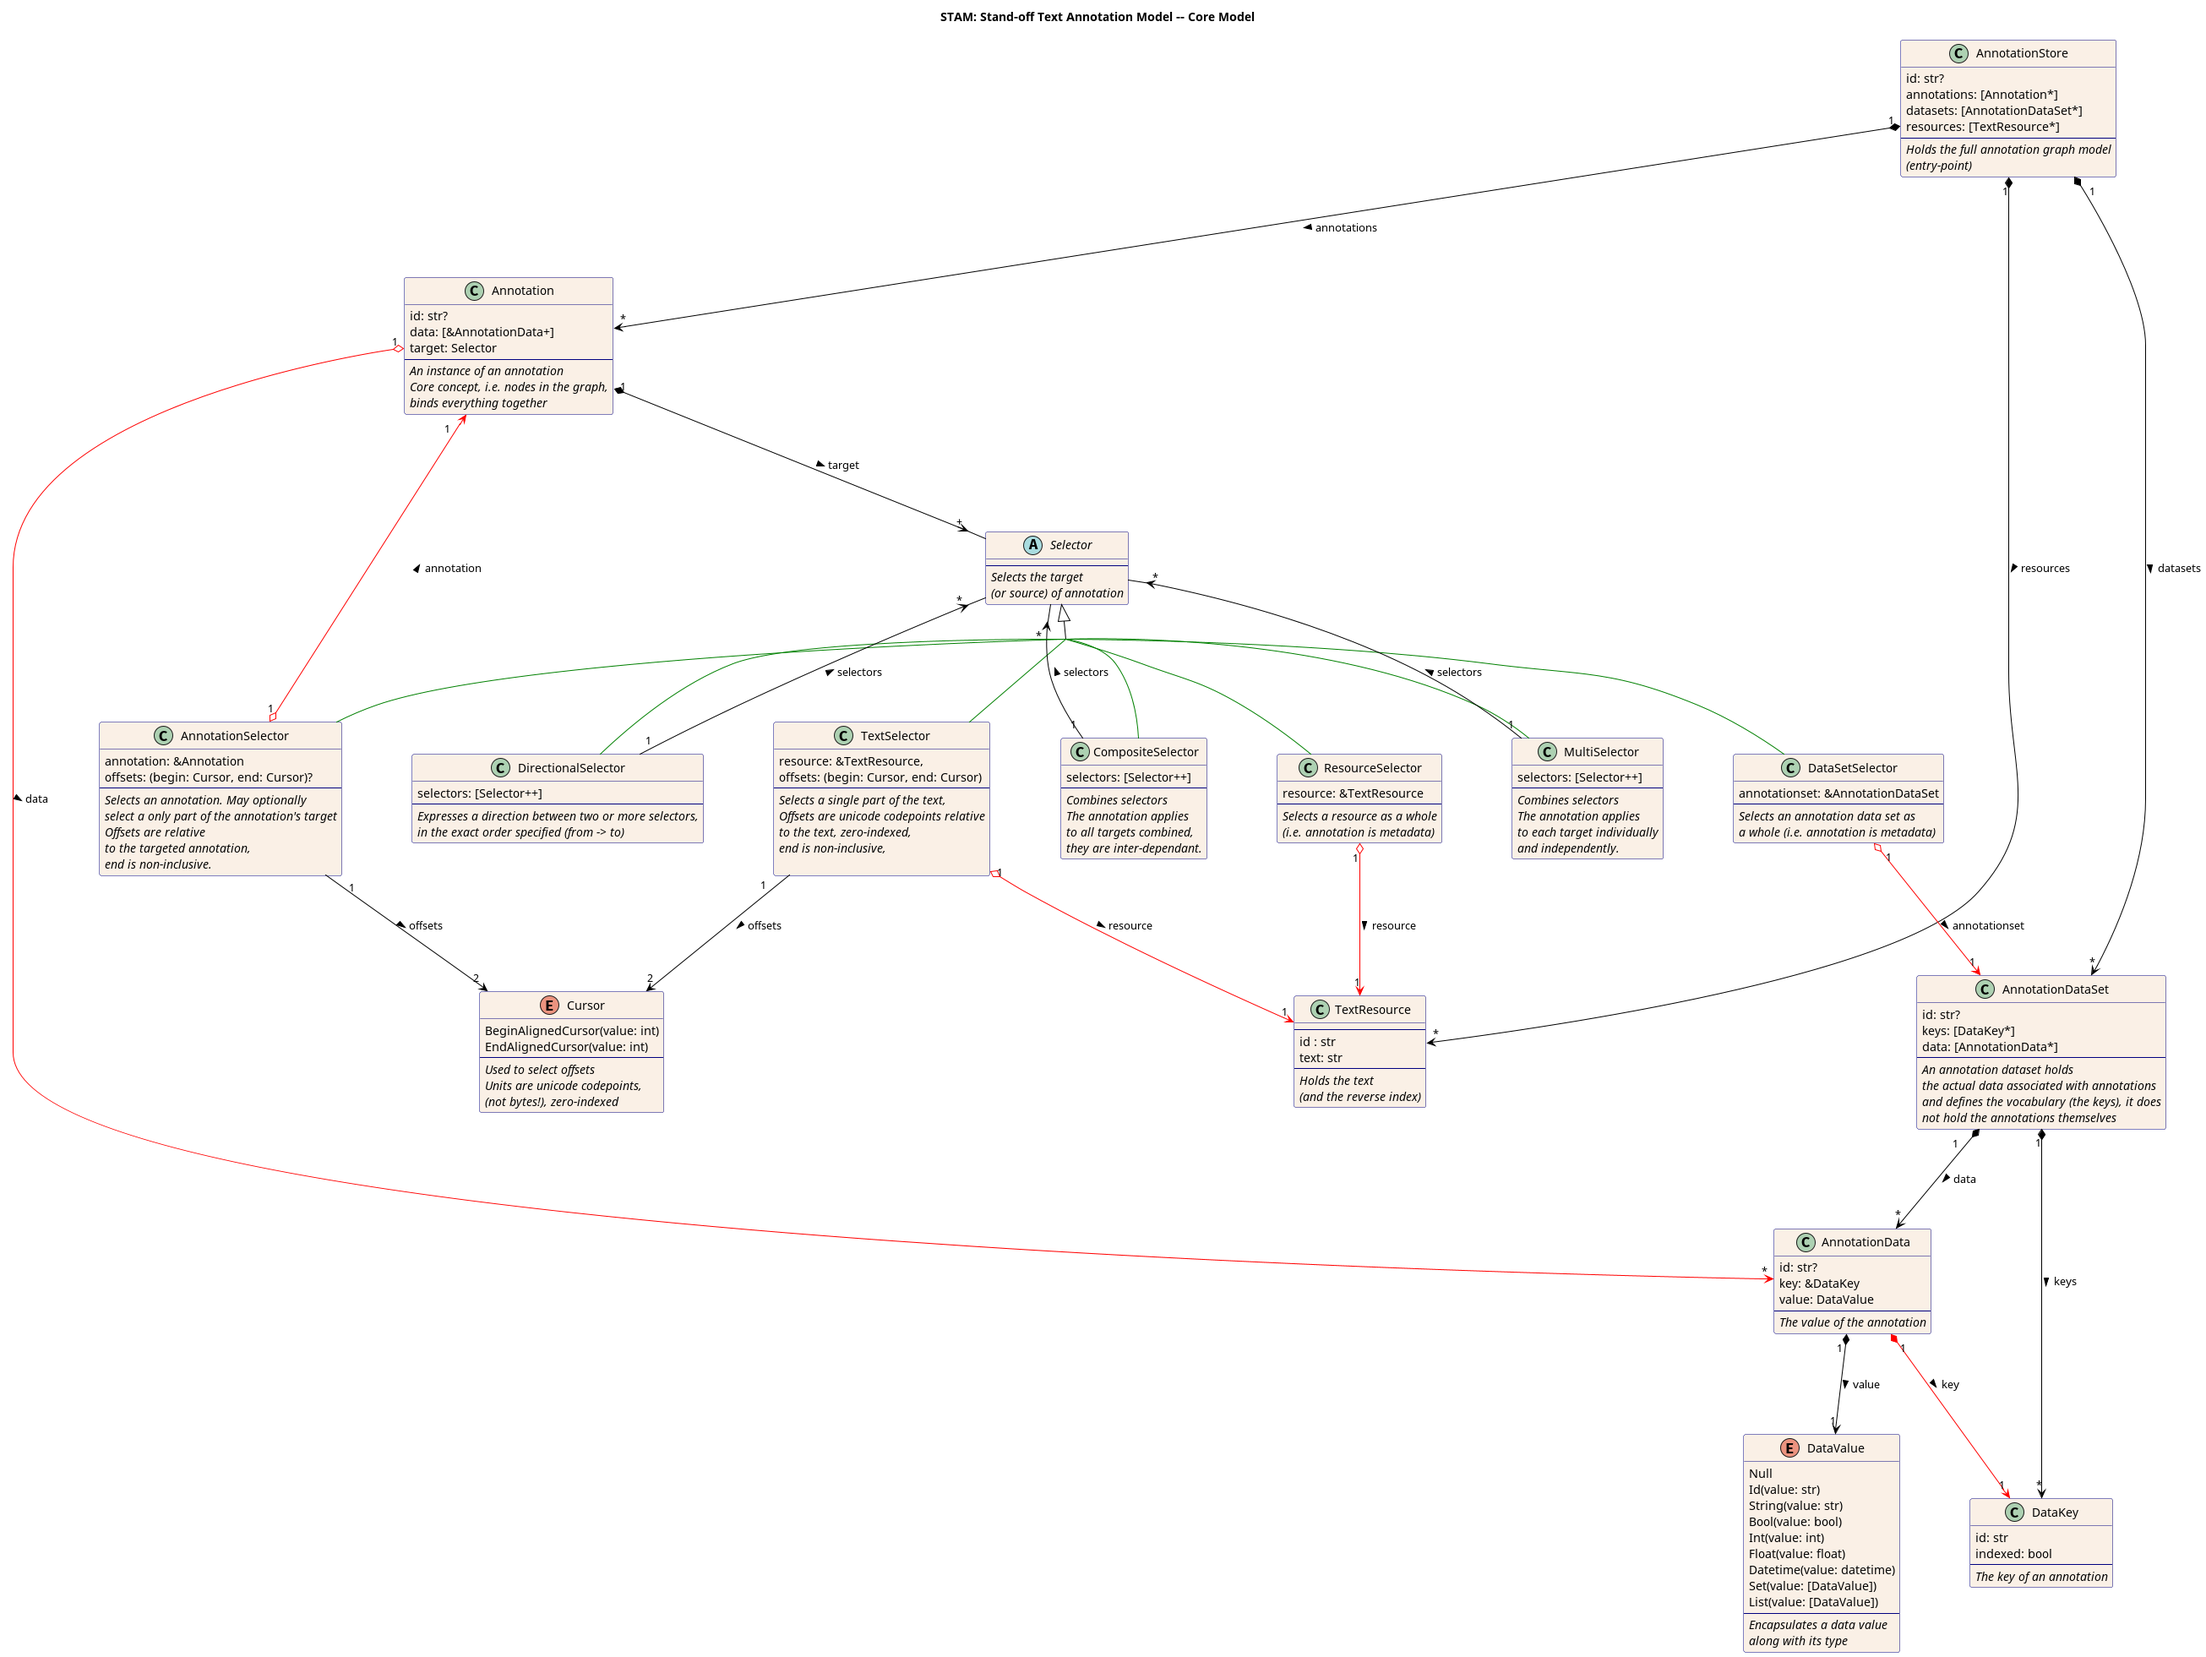
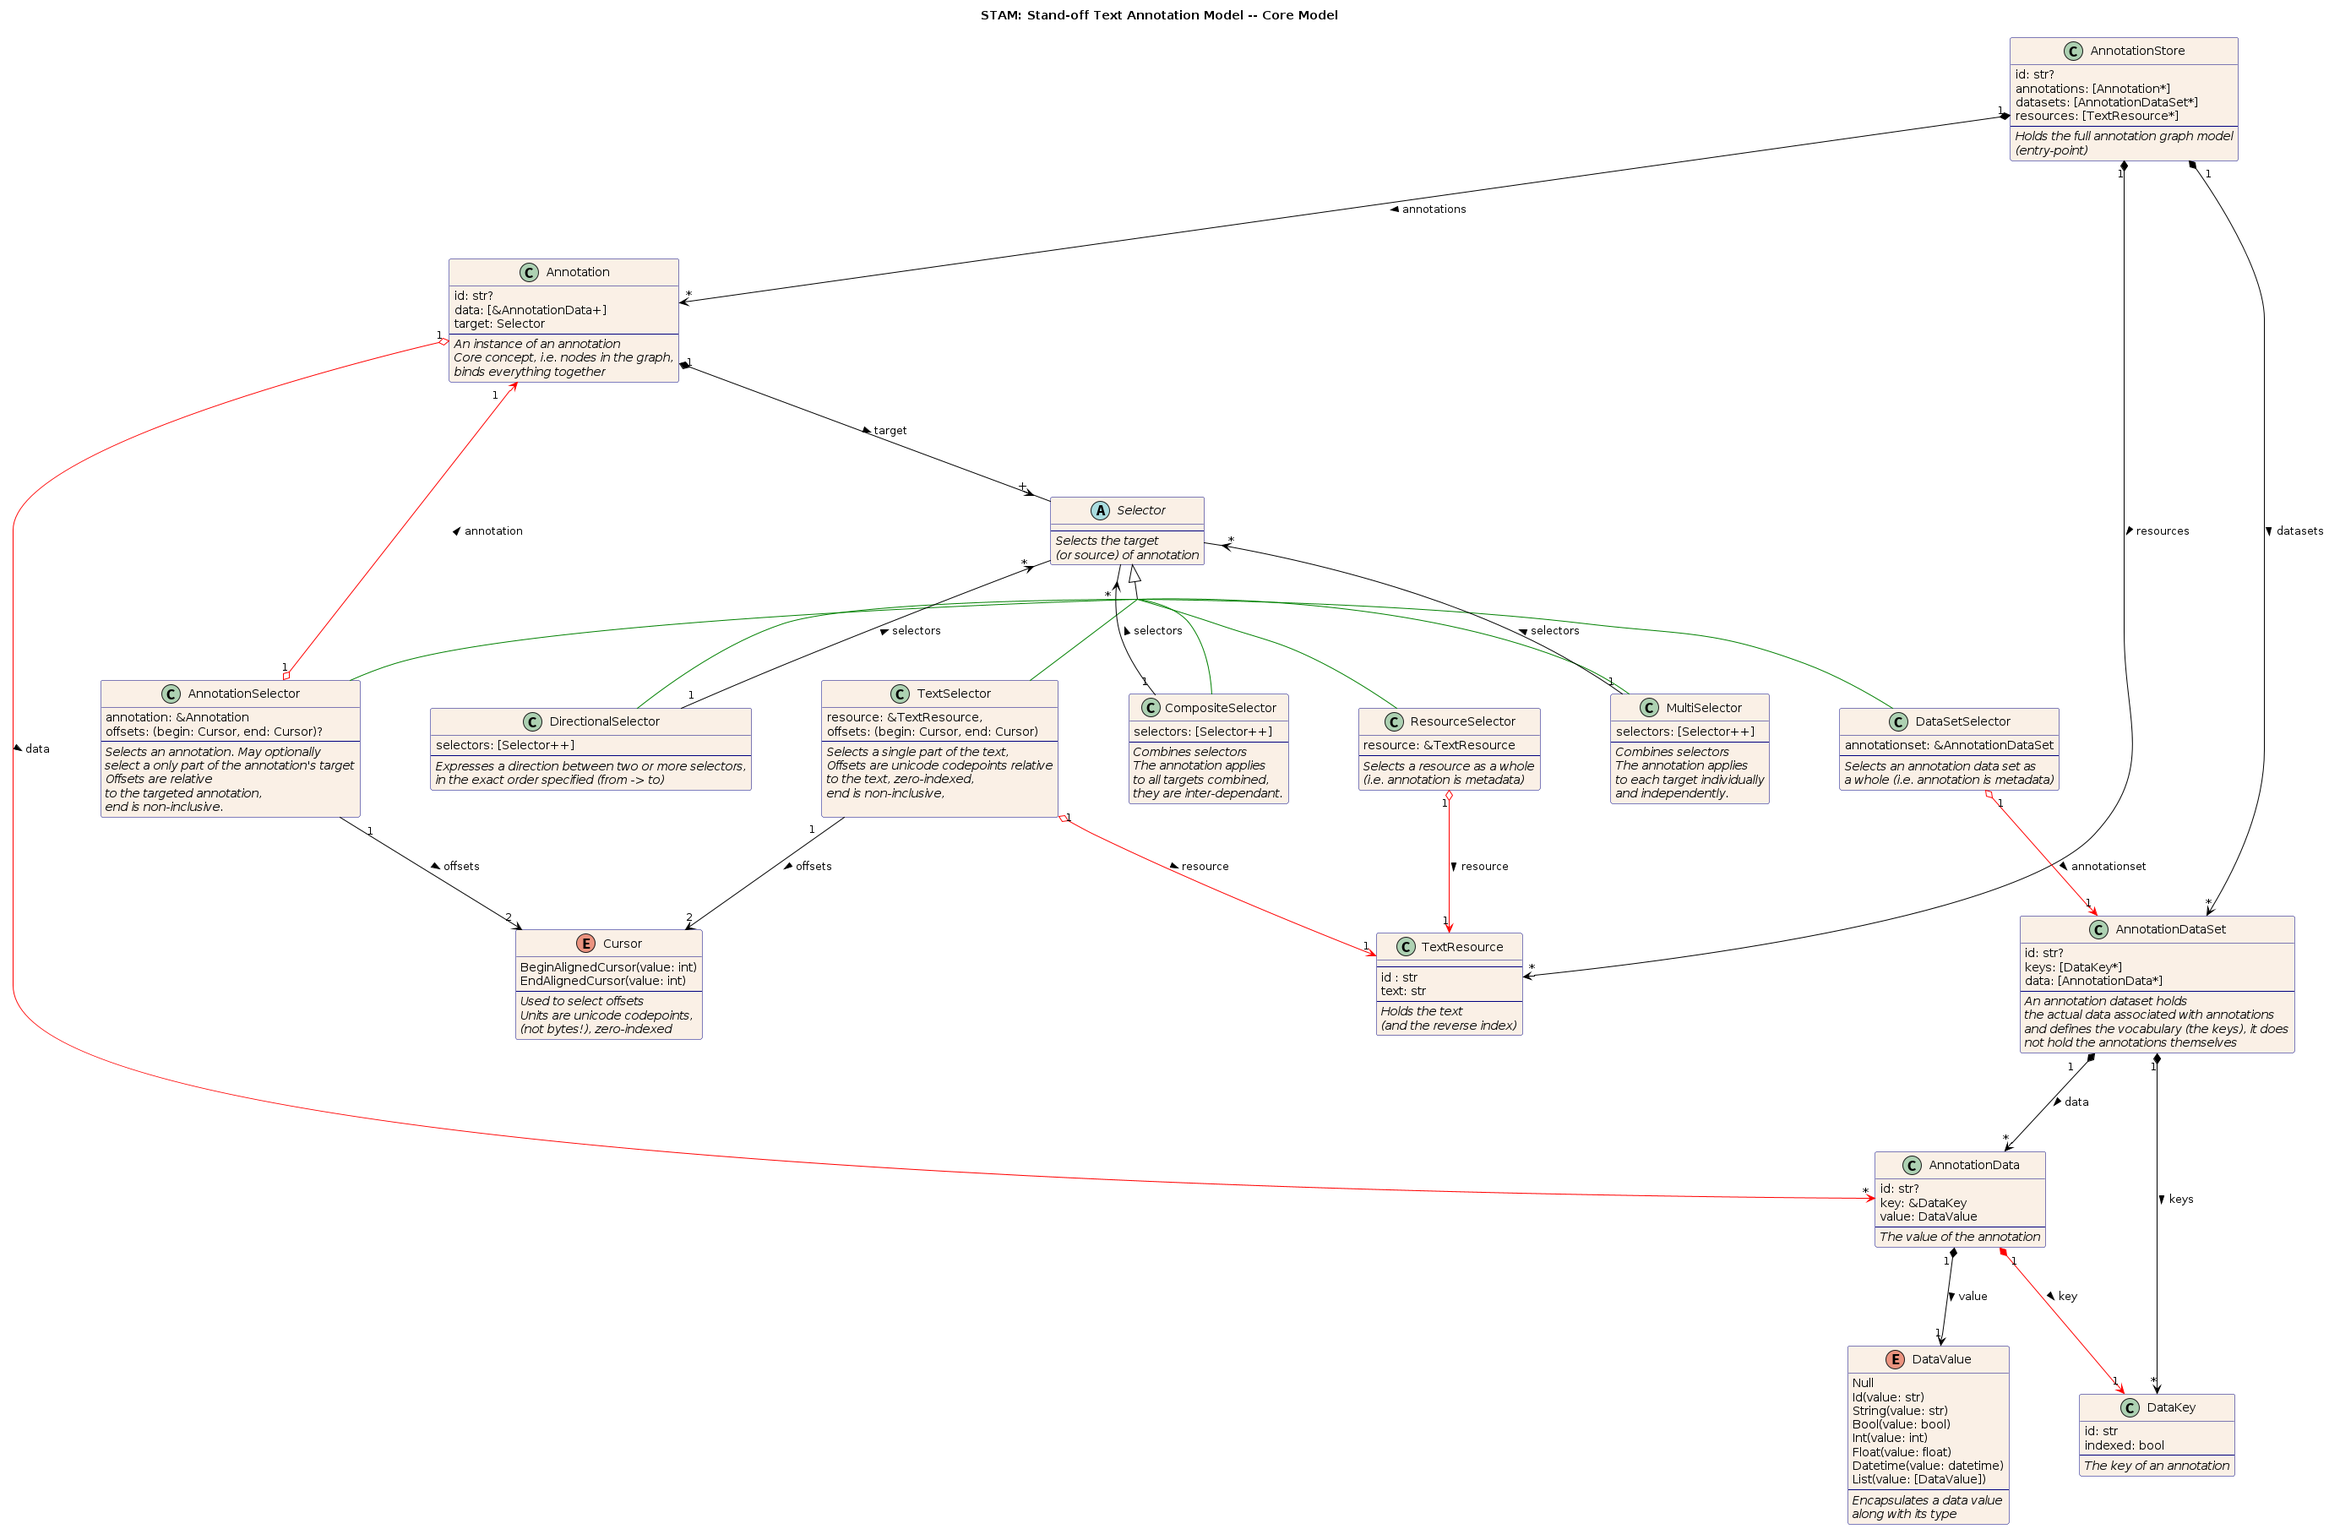
removed DataValue Set from the specification for now, this can already be represented by higher order annotations

diff --git a/README.md b/README.md
@@ -362,7 +362,6 @@ It can be set to one of the following:
 * ``Float(value: float)`` - Fractional number
 * ``Datetime(value: datetime)`` - A date/time representation, compatible with ``xsd:datetime``.
 * The following are recursive collection types:
-    * ``Set(value: [DataValue])`` - An unordered set of multiple ``DataValue`` instances
     * ``List(value: [DataValue])`` - An ordered list of multiple ``DataValue`` instances
 
 Note that there is no ``Map`` type to associate further nested key/value pairs. If
